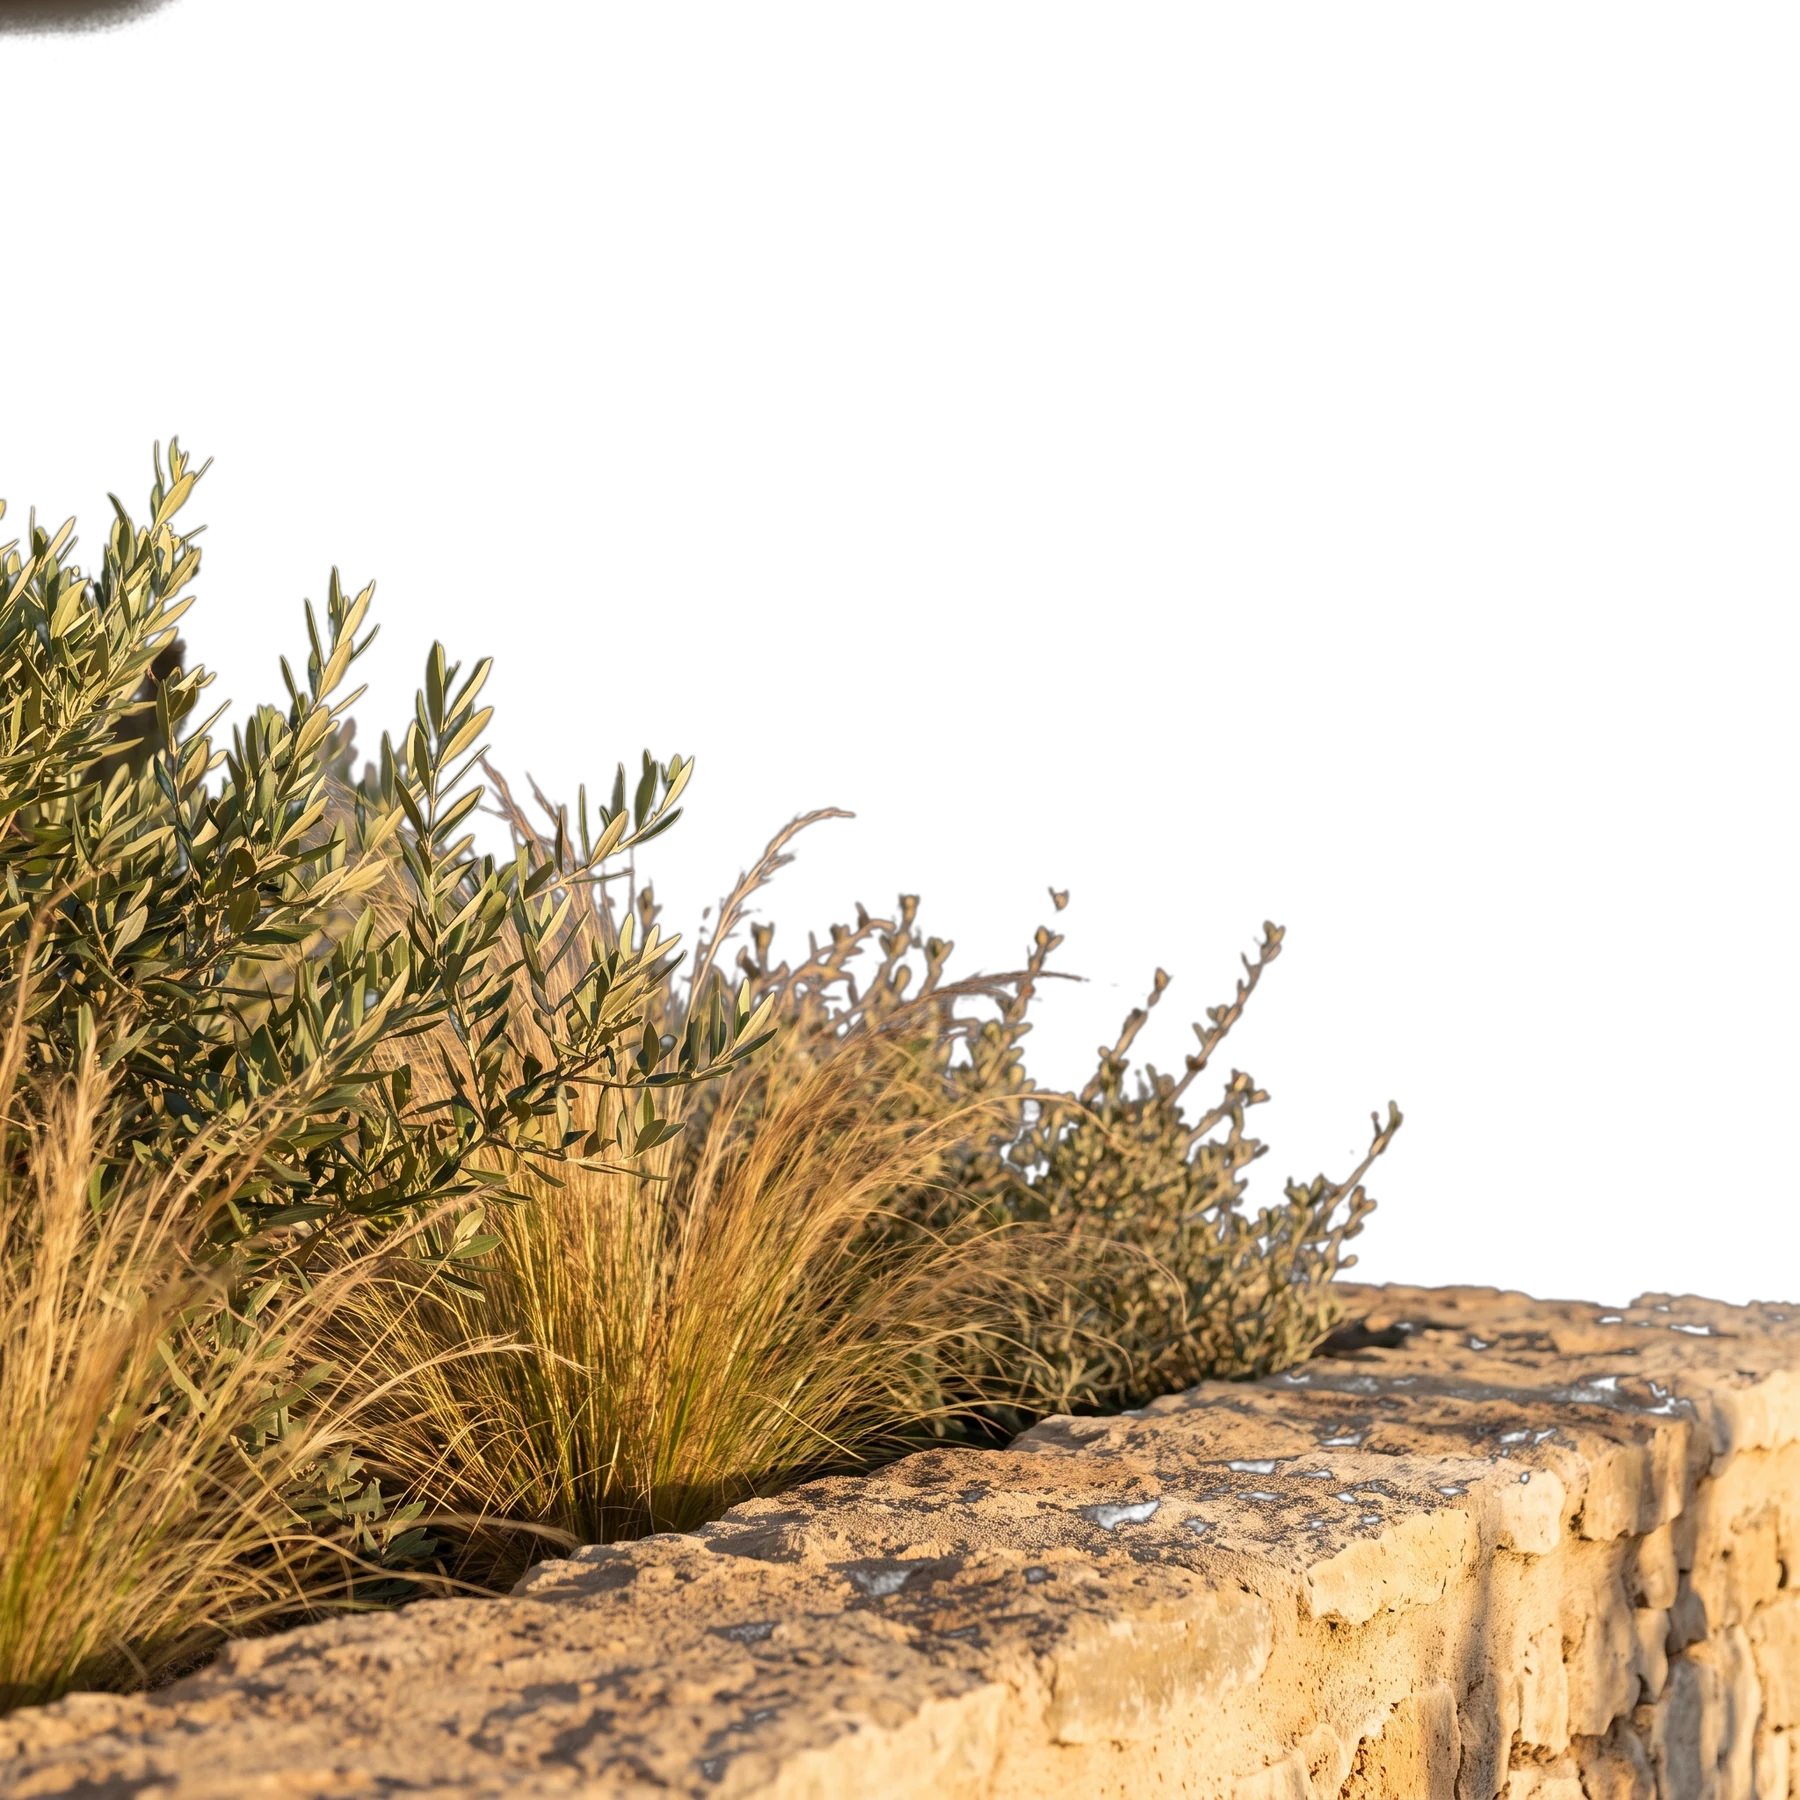
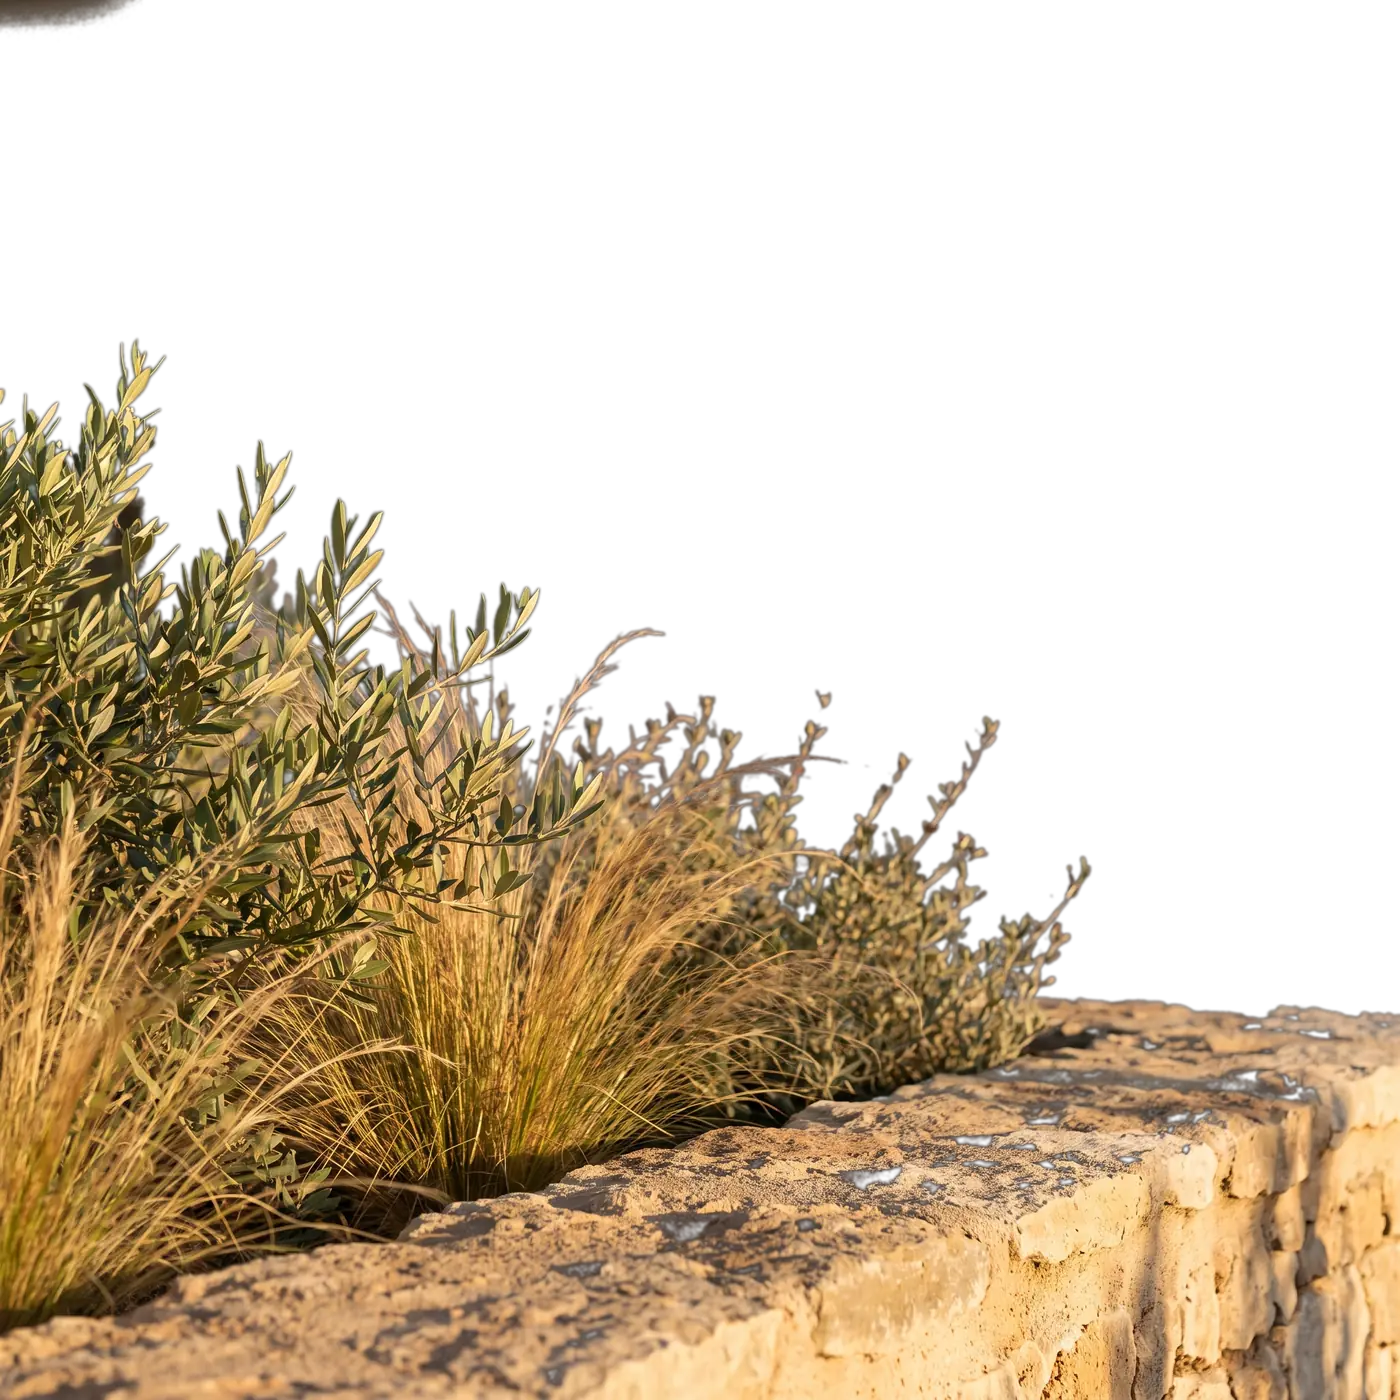
Stop serving the hero cut-outs as AVIF
Your screenshot is Safari showing the nearest plane as an opaque grey
rectangle over the whole hero — the studio background that was keyed out.
The alpha is intact in the file and in what the server sends: the same
URL, at your window size, composites correctly in Chromium, and the
optimiser's AVIF output reports 1.7M transparent pixels. Safari's AVIF
decoder is what loses it, and the plane nearest the camera is the one
that then covers everything behind it.

Both cut-outs now skip the image optimiser, so the WebP is served as
authored and no format negotiation happens. The backdrop has no alpha and
still gets AVIF. Net cost is about 94 kB on the hero, against a failure
mode that hides the entire first screen on one of the two engines that
matter — and it holds regardless of which decoder is at fault, which
matters when I cannot run the browser that is failing.

The plates are 1400px now and encoded for size rather than for archival
quality, since the optimiser is no longer resizing them: the planting
went from 539 kB to 242 kB, the umbrella from 68 kB to 44 kB.

qa: 0 errors, 0 warnings. qa:flows: 30/30.

Changed region(s): [[0.2457, 0.7986, 0.2764, 0.8293]]

diff --git a/src/components/home/hero.tsx b/src/components/home/hero.tsx
@@ -80,11 +80,21 @@ export function Hero({
               have to: the three were composed as one frame, and cropping them
               differently would pull the umbrella off its mast. The plates are
               square so the same crop works on a phone and on a wide desktop. */}
+          {/* `unoptimized` on both cut-outs, deliberately.
+              Next negotiates AVIF where the browser advertises it, and Safari
+              mishandles alpha in AVIF: the transparent studio background comes
+              back opaque, and this plane — the one nearest the camera — covers
+              the entire hero with a grey rectangle. Serving the WebP as
+              authored sidesteps the format negotiation altogether. The backdrop
+              has no alpha, so it still goes through the optimiser and still
+              gets AVIF. The plates are 1400px and encoded for size to pay for
+              the bytes the optimiser is no longer saving here. */}
           <Plane z={-70} lift={150}>
             <Media
               src={planes.mid}
               alt=""
               priority
+              unoptimized
               sizes="100vw"
               className="absolute inset-0 size-full"
               objectPosition="center 56%"
@@ -95,6 +105,7 @@ export function Hero({
             <Media
               src={planes.near}
               alt=""
+              unoptimized
               sizes="100vw"
               className="absolute inset-0 size-full"
               objectPosition="center 56%"

diff --git a/src/components/ui/media.tsx b/src/components/ui/media.tsx
@@ -25,6 +25,7 @@ export function Media({
   quality = 82,
   ratio,
   objectPosition,
+  unoptimized,
   ...rest
 }: Omit<ImageProps, "src" | "alt" | "fill" | "className"> & {
   src?: string | null;
@@ -34,6 +35,8 @@ export function Media({
   fill?: boolean;
   ratio?: string;
   objectPosition?: string;
+  /** Skip the image optimiser. See the hero for the one reason to. */
+  unoptimized?: boolean;
 }) {
   const { d } = useLocale();
   const [state, setState] = useState<"loading" | "ready" | "error">(src ? "loading" : "error");
@@ -68,7 +71,7 @@ export function Media({
           // The generated brand plates are SVG: they are already tiny and
           // resolution-independent, so routing them through the optimiser
           // would cost a request and gain nothing.
-          unoptimized={src.endsWith(".svg")}
+          unoptimized={unoptimized ?? src.endsWith(".svg")}
           onLoad={() => setState("ready")}
           onError={() => setState("error")}
           className={cn(
